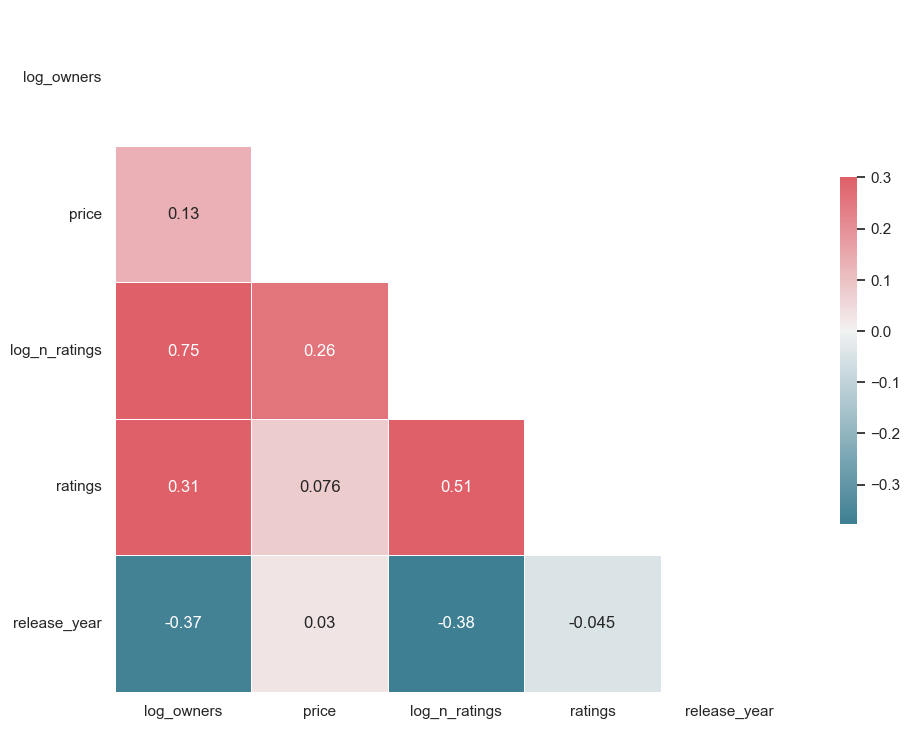
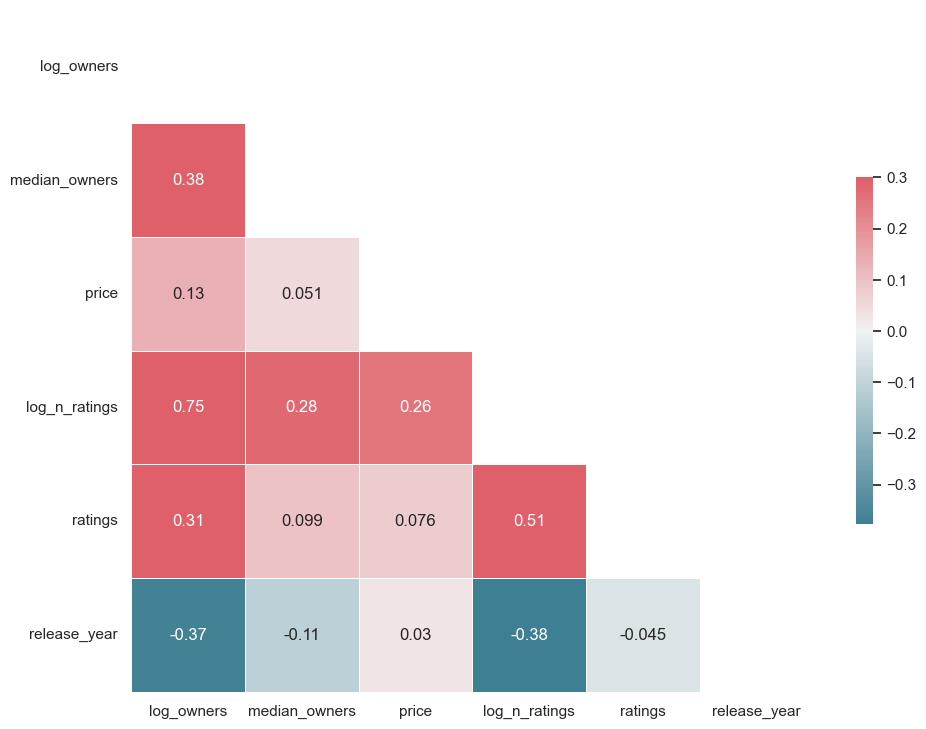
update EDA report

diff --git a/pages/4_📈_Exploratory_Data_Analysis.py b/pages/4_📈_Exploratory_Data_Analysis.py
@@ -108,8 +108,18 @@ But lower frequency does not mean lower ratings. Although RPG games only take a 
 st.markdown(markdown_text5)
 
 st.header("💶 Owners and Pricing")
-st.write("By observing the information of top ten successful games in terms of rating scores, we found that all of these games have achieved a significant milestone of having at least two million owners and the price varies from the lowest 3.99 to the highest 58.99. Continuing our analysis, we narrowed our focus to paid games with 20,000 or more owners. We first examined the distribution of ratings among these games.")
+st.write("We first examined the performance of games with 20,000 or more owners in terms of rating scores. We chose 20,000 as a milestone because most of games have owner ranges of 0-20,000 or 20,000-50,000. Then, we had to decide whether to keep them or exclude them in our analysis.")
 
+boxplot_owners = 'https://raw.githubusercontent.com/simondesh/FinalProjectWebsite/main/src/images/boxplot_owners.png'
+st.image(boxplot_owners)
+
+markdown_text8 = """
+There are two important observations to consider here.
+- when considering all the data, the average ratings for paid games are significantly lower compared to looking at games with 20,000 or more owners.
+- when examining all the data, the average ratings for paid games are actually lower than those for free games, but when focusing on games with 20,000 or more owners, the ratings for paid games are noticeably higher.
+
+One possible explanation for this discrepancy is that the rating calculation method used by [SteamDB](https://steamdb.info/blog/steamdb-rating/) introduces a bias towards 50%. This bias affects games with fewer total ratings more strongly, while games with a higher number of ratings are less impacted. In other words, games with less than 20,000 games tend to be biased strongly. Consequently, for our continued analysis, we will narrow our focus to paid games with 20,000 or more owners. 
+"""
 
 rating_distribution_paid_games = 'https://raw.githubusercontent.com/simondesh/FinalProjectWebsite/main/src/images/rating_distribution_paid_games.png'
 st.image(rating_distribution_paid_games)
@@ -118,7 +128,7 @@ st.image(rating_distribution_paid_games)
 markdown_text6 = """
 According to the plot, we could find the distribution of ratings is left-skewed with approximately half of the ratings falling within the 60% to 80% range, which indicates games generally receive a higher proportion of positive ratings compared to negative ratings. 
 
-Then we used seaborn to find the relationships between owners, pricing, ratings, log number of owners and log number of ratings as shown below:
+By looking at the initial heatmap we made, we can see that median owners and ratings have 0.099 correlations, but the correlation between log_owners and ratings is 0.31 which is better. That can be explained by skewed distribution of median owners with many extreme values. Thus, we continued our further analysis by focusing on log_owners and its relationship with ratings.
 """
 st.markdown(markdown_text6)
 
@@ -149,7 +159,7 @@ avg_ratings_developers = 'https://raw.githubusercontent.com/simondesh/FinalProje
 st.image(avg_ratings_developers)
 
 
-st.write("It is surprising to find that there is nearly no correlations between developer and ratings. It can be explained as one developer tends to develop many different genres of games, where genres seem to have greater influence on ratings. However, since we only examined the performances of 30 developers, we cannot conclude that developers have no impact on rating scores. A further analysis on the reputation of developers would be mentioned in model prediction section.")
+st.write("It is surprising to find that there is nearly no correlations between developer and ratings. It can be explained as one developer tends to develop many different genres of games, where genres seem to have greater influence on ratings. However, since we only examined the performances of 30 developers, we cannot conclude that developers have no impact on rating scores.")
 
 
 
